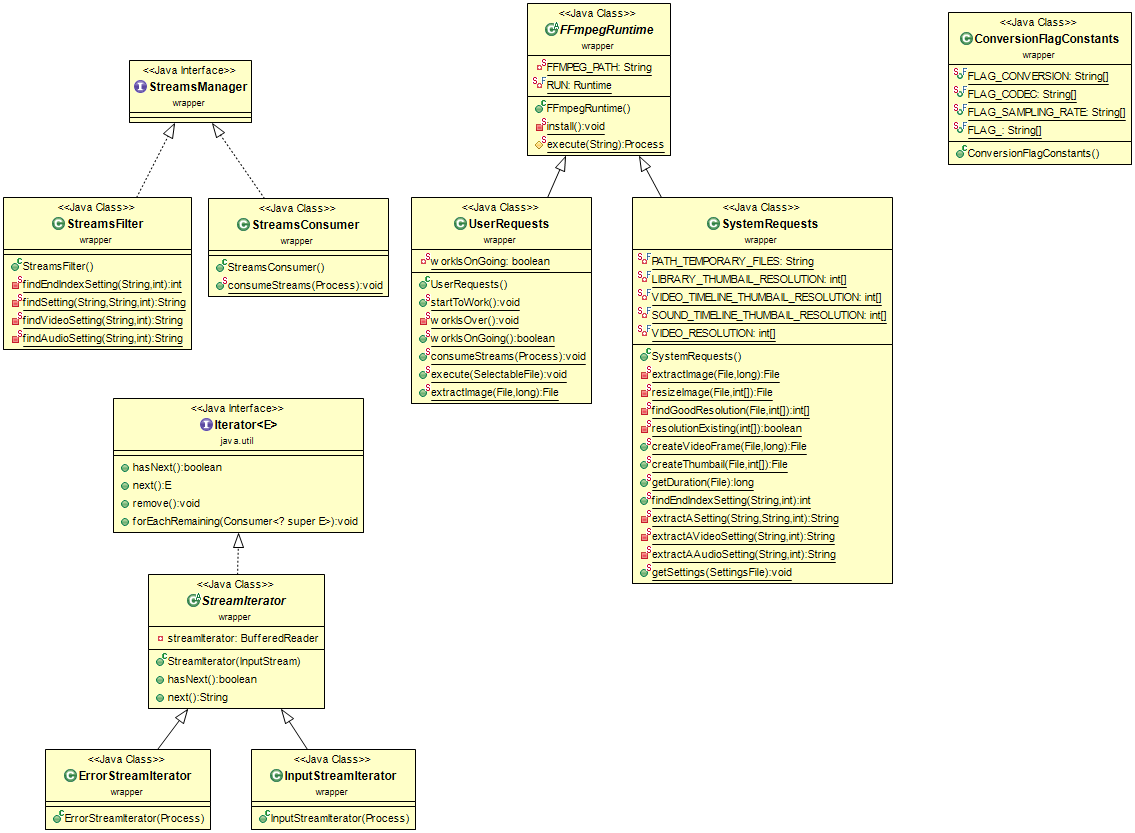
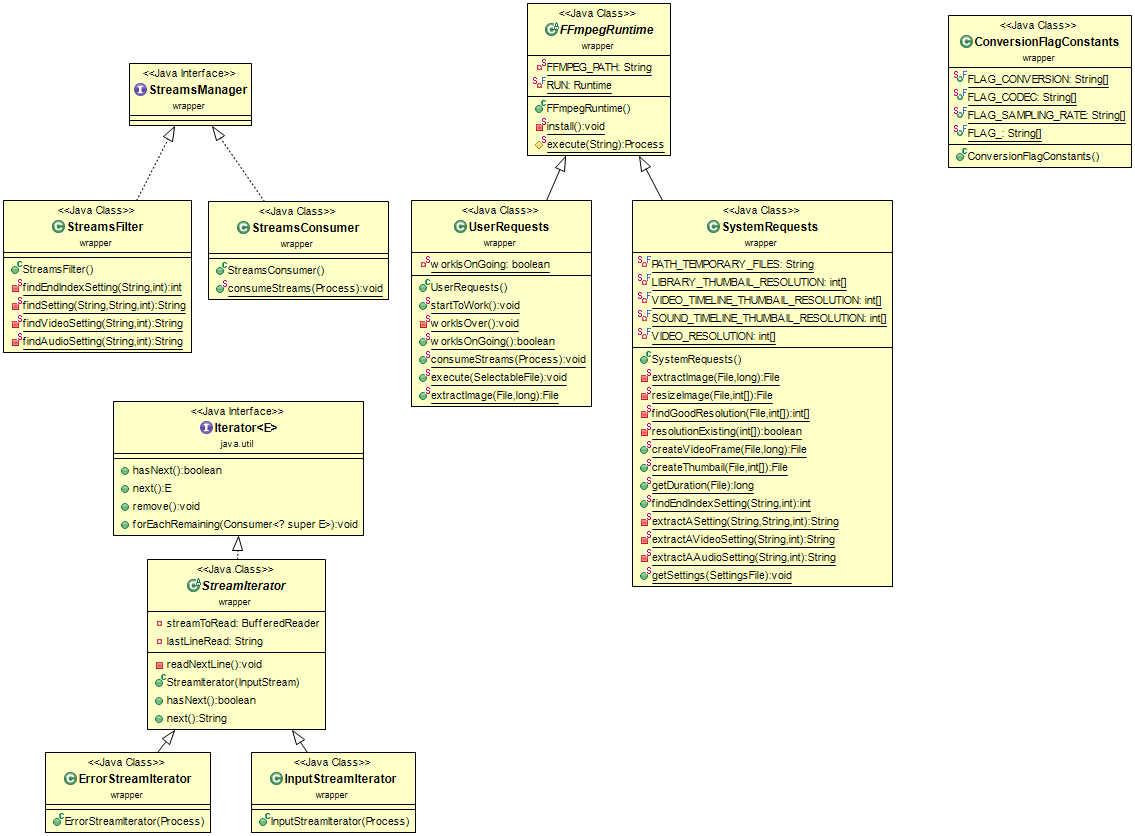
Correction de l'iterateur StreamIterator.

diff --git a/src/tests/files/SelectaleFileTest.java b/src/tests/files/SelectaleFileTest.java
@@ -8,6 +8,7 @@ import java.io.File;
 import org.junit.Test;
 
 import exceptions.IncorrectFileException;
+import files.MediaFileType;
 import files.SelectableFile;
 
 public final class SelectaleFileTest {
@@ -89,7 +90,7 @@ public final class SelectaleFileTest {
 		File file = new File("Test.mp4");
 		SelectableFile selectableFile = new SelectableFile(file);
 
-		if (selectableFile.getTypeFile() == SelectableFile.FILE_TYPE_VIDEO) {
+		if (selectableFile.getTypeFile() == MediaFileType.MEDIA_FILE_VIDEO) {
 			// OK
 		} else {
 			throw new Exception("Erreur fonction whoIAm()");
@@ -106,7 +107,7 @@ public final class SelectaleFileTest {
 		File file = new File("Test.mp3");
 		SelectableFile selectableFile = new SelectableFile(file);
 
-		if (selectableFile.getTypeFile() == SelectableFile.FILE_TYPE_AUDIO) {
+		if (selectableFile.getTypeFile() == MediaFileType.MEDIA_FILE_AUDIO) {
 			// OK
 		} else {
 			throw new Exception("Erreur fonction whoIAm()");
@@ -123,7 +124,7 @@ public final class SelectaleFileTest {
 		File file = new File("Test.png");
 		SelectableFile selectableFile = new SelectableFile(file);
 
-		if (selectableFile.getTypeFile() == SelectableFile.FILE_TYPE_IMAGE) {
+		if (selectableFile.getTypeFile() == MediaFileType.MEDIA_FILE_IMAGE) {
 			// OK
 		} else {
 			throw new Exception("Erreur fonction whoIAm()");

diff --git a/src/wrapper/StreamIterator.java b/src/wrapper/StreamIterator.java
@@ -8,34 +8,38 @@ public abstract class StreamIterator implements Iterator<String>{
 	private BufferedReader streamToRead;
 	private String lastLineRead;
 	
-	public StreamIterator(InputStream stream) {
-		streamToRead = new BufferedReader(new InputStreamReader(stream));
-	}
-	
-	@Override
-	public boolean hasNext() {
+	private void readNextLine() {
 		try {
 			/**
-			 * ETUDE DE LA LIGNE ULTERIEURE.
+			 * ETUDE DE LA LIGNE SUIVANTE.
 			 * 
-			 * On lit la ligne ulterirure, et on ferme le flux 
-			 * si il n'y a pas de ligne ulterieur.
+			 * On lit la ligne suivante, et on ferme le flux 
+			 * si il n'y a pas de ligne suivante.
 			 */
 			if((lastLineRead = streamToRead.readLine()) == null) streamToRead.close();
-			return lastLineRead == null;
-			
 		} catch (IOException e) {
 			
 			/**
 			 * EXCEPTIONS, PAS DE FLUX TROUVES. 
 			 */
 			JOptionPane.showMessageDialog(null, MessageConstants.FALIURE_UNFINDABLE_STREAMS);
-			return false;
 		}
+	}
+	
+	public StreamIterator(InputStream stream) {
+		streamToRead = new BufferedReader(new InputStreamReader(stream));
+		readNextLine();
+	}
+	
+	@Override
+	public boolean hasNext() {
+		return lastLineRead != null;
 	}
 
 	@Override
 	public String next() {
-		return lastLineRead;
+		String oldLineRead = lastLineRead;
+		readNextLine();
+		return oldLineRead;
 	}
 }

diff --git a/src/wrapper/StreamsConsumer.java b/src/wrapper/StreamsConsumer.java
@@ -43,7 +43,7 @@ public final class StreamsConsumer implements StreamsManager{
 		 * ( STDERR de l'application externe : FFMPEG. ).
 		 */ 
 		StreamIterator consumer = new ErrorStreamIterator(processToBeConsume);
-		while(consumer.hasNext());
+		while(consumer.hasNext()) consumer.next();
 		
 		
 		/**
@@ -53,7 +53,7 @@ public final class StreamsConsumer implements StreamsManager{
 		 * ( STDOUT de l'application externe : FFMPEG. ).
 		 */
 		consumer = new InputStreamIterator(processToBeConsume);
-		while(consumer.hasNext());
+		while(consumer.hasNext()) consumer.next();
 		
 		
 		 try {
